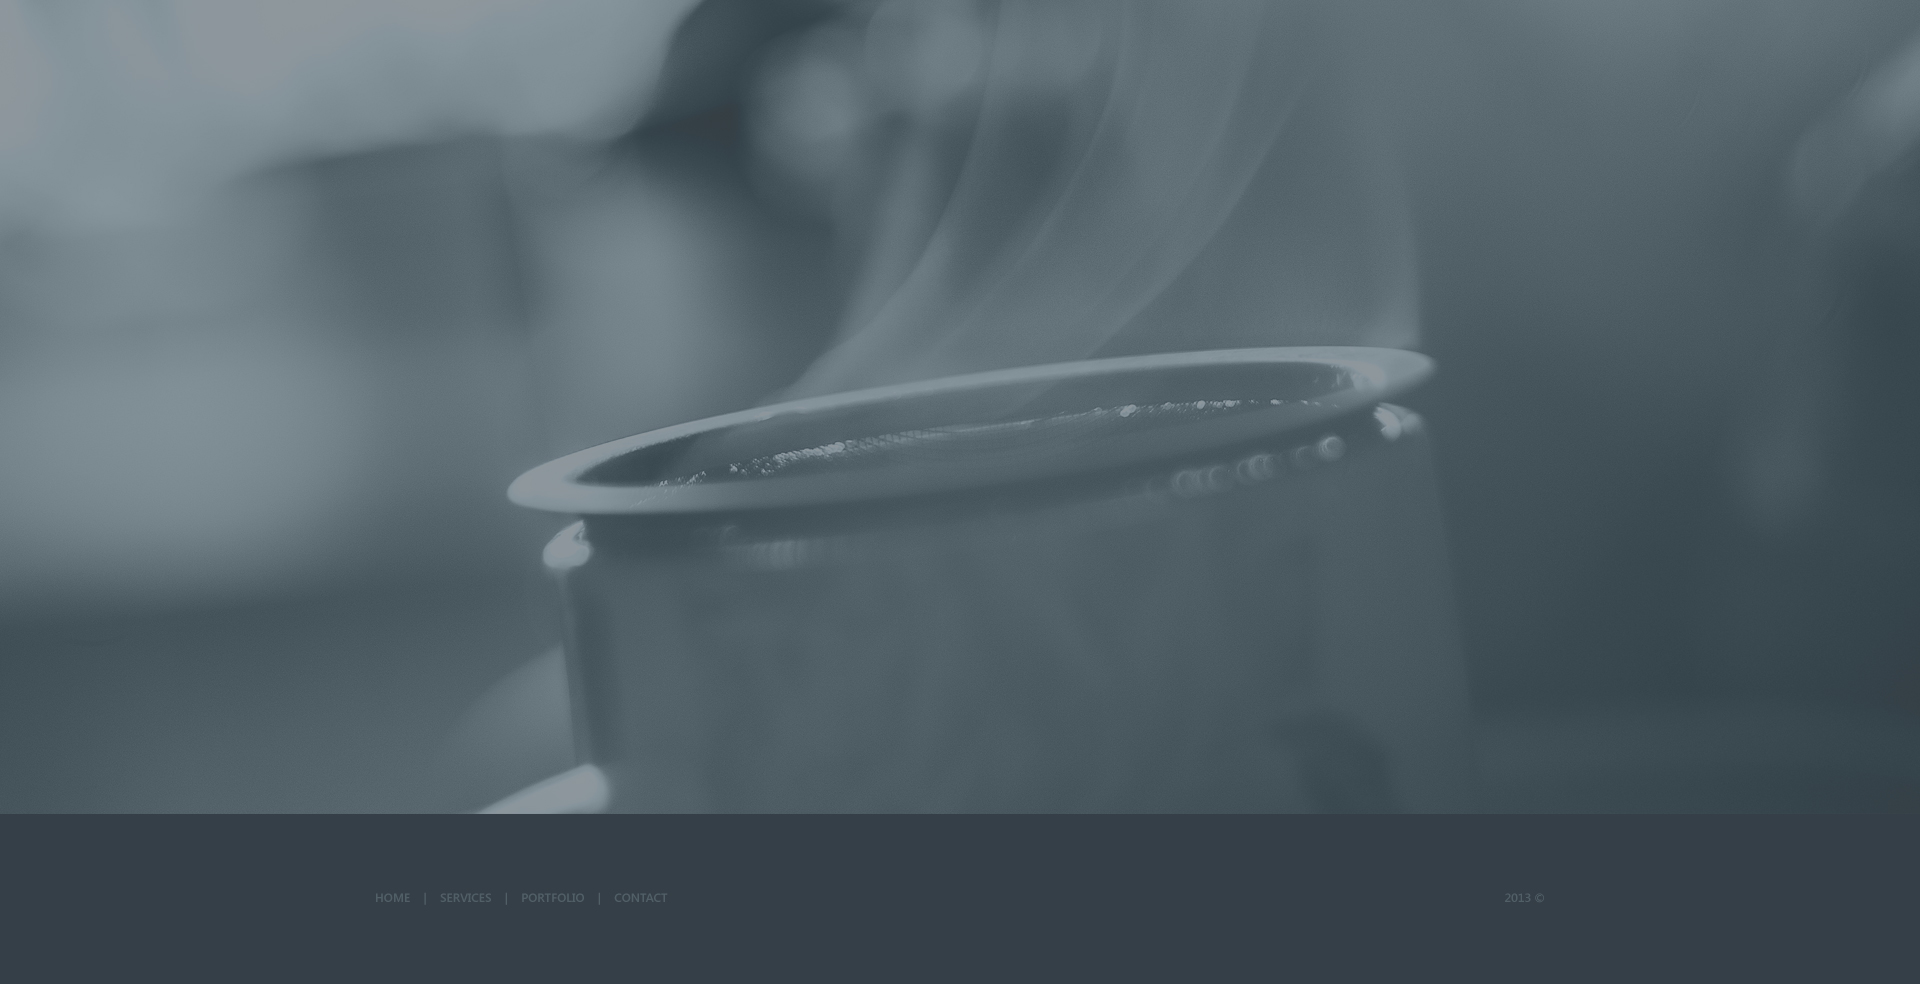
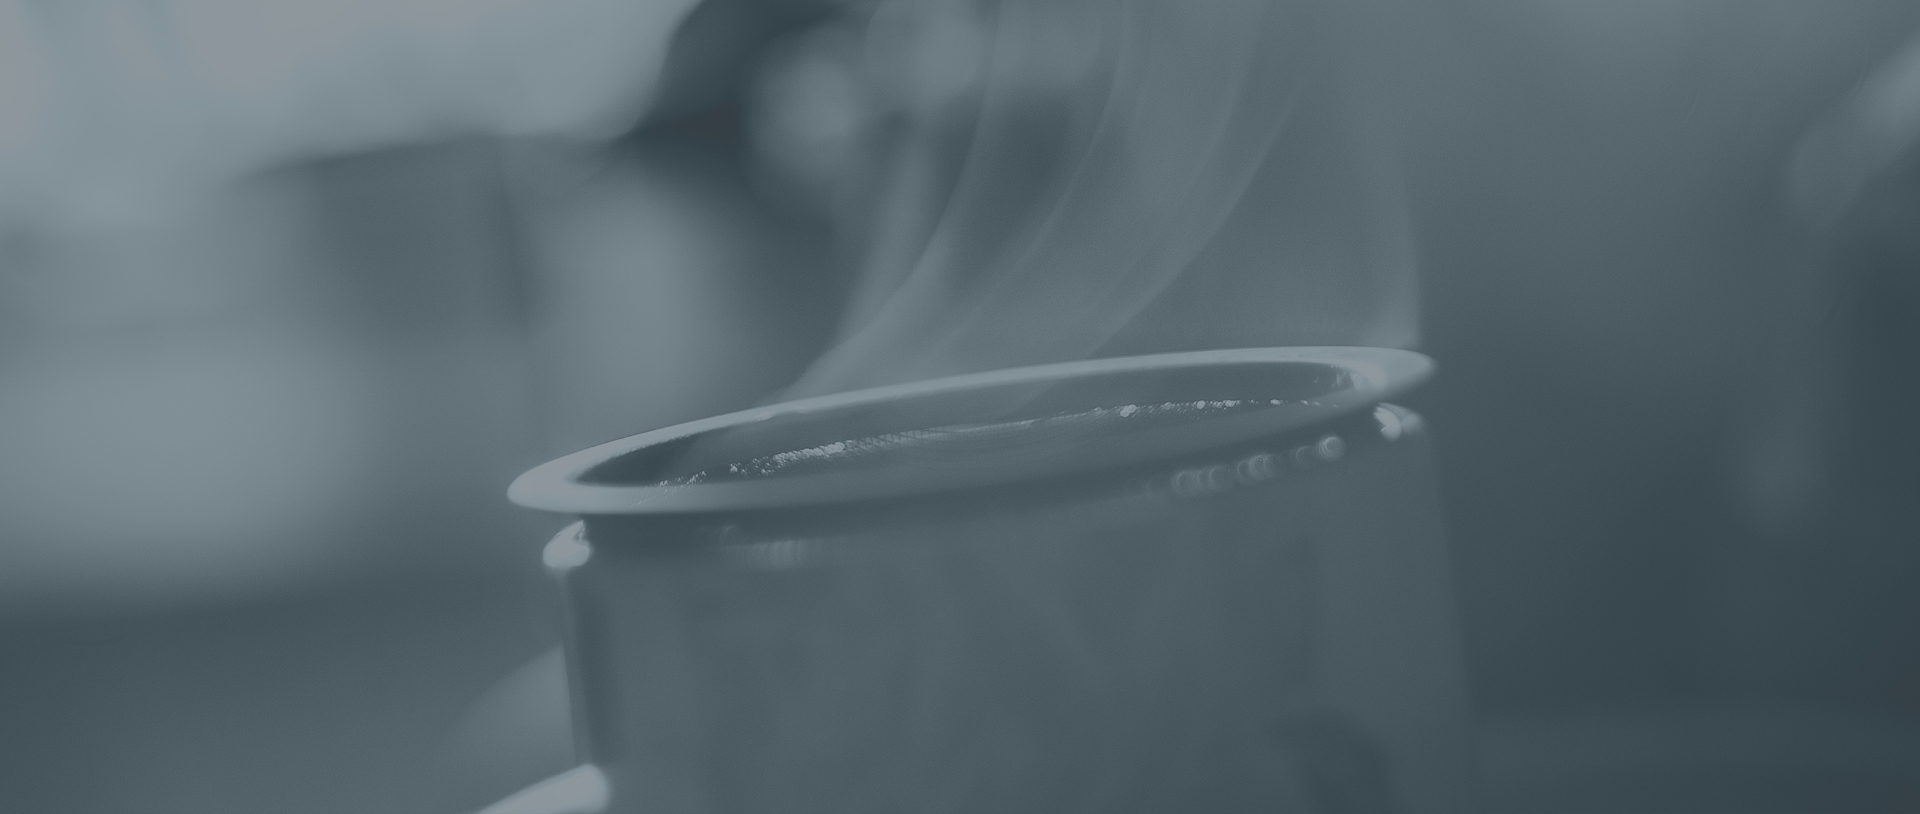
new file

diff --git a/exercice.html b/exercice.html
@@ -113,16 +113,24 @@
             <div class="container41">
                 <div class="just">
                     <p class="section"><span class="cite">JUS</span>T DEFAULT SECTION</p>
-                    <P>Bear claw marzipan bear claw applicake I love muffin. Lemon drops gummi bears pastry gummi bears
-                        sesame snaps I love unerdwear.com. Soufflé cotton candy dessert candy ice cream wafer gummies
-                        cheesecake brownie.
-                    </P>
-                    <P>Muffin chupa chups jelly beans sweet pie applicake. Croissant chocolate cake I love pudding. Ice
-                        cream I love powder pudding apple pie marshmallow. Cupcake marzipan oat cake bonbon I love candy
-                        canes toffee.</P>
+                    <div class="section-text">
+                        <P>Bear claw marzipan bear claw applicake I love muffin. Lemon drops gummi bears pastry gummi
+                            bears
+                            sesame snaps I love unerdwear.com. Soufflé cotton candy dessert candy ice cream wafer
+                            gummies
+                            cheesecake brownie.
+                        </P>
+                        <P>Muffin chupa chups jelly beans sweet pie applicake. Croissant chocolate cake I love pudding.
+                            Ice
+                            cream I love powder pudding apple pie marshmallow. Cupcake marzipan oat cake bonbon I love
+                            candy
+                            canes toffee.</P>
+                    </div>
                     <p class="visit"><a>VISIT ME</a></p>
                 </div>
-                <img src="images/video_08.jpg" alt="video">
+                <iframe width="560" height="315" src="https://www.youtube.com/embed/_fFPwMfpWC0" frameborder="0"
+                    allow="accelerometer; autoplay; encrypted-media; gyroscope; picture-in-picture"
+                    allowfullscreen></iframe>
             </div>
         </div>
     </div>
@@ -183,21 +191,60 @@
                     <p><span class="port">TES</span>TIMONIALS</p>
                     <img src="images/guille_20.jpg" alt="guillemet">
                 </div>
-                <p class="applicake">Applicake chocolate cake wafer toffee pie soufflé wafer. Tart marshmallow wafer macaroon cheesecake
+                <p class="applicake">Applicake chocolate cake wafer toffee pie soufflé wafer. Tart marshmallow wafer
+                    macaroon cheesecake
                     jelly. Gingerbread cookie soufflé sweet roll sweet roll jelly-o.</p>
                 <p class="walt">-Walter White</p>
             </div>
         </div>
     </div>
     <div class="container container-large-8">
-        <div id="CONTACT">
-            <p>CONTACT</p>
+        <div class="container8">
+            <div class="container-contact">
+                <p><span class="cite">CO</span>NTACT</p>
+            </div>
+            <div class="full-text">
+                <div class="full">
+                    <div class="full-name">
+                        <p>FULL NAME</p>
+                    </div>
+                    <div class="container-name"></div>
+                    <div class="full-name">
+                        <p>EMAIL</p>
+                    </div>
+                    <div class="container-name"></div>
+                </div>
+                <div class="text8">
+                    <p class="jujubes">Jujubes bear claw croissant wafer sweet lemon drops brownie chocolate bar.
+                        Sweet lollipop halvah tootsie roll cake fruitcake. Chocolate cake chocolate bar gingerbread
+                        lollipop tart. Jujubes bear claw donut chupa chups.</p>
+                    <ul class="address">
+                        <li>Linda Newman</li>
+                        <li>W325 State Road 123</li>
+                        <li>Mondovi, WI(Wisconsin) 98746-54321</li>
+                        <li>715) 946 - 1234</li>
+                    </ul>
+                </div>
+            </div>
+            <div class="message">
+                <div class="full-name"></div>
+                <div class="container-message"></div>
+            </div>
+            <p class="push-message">MESSAGE</p>
         </div>
+    </div>
+    </div>
+    <div id="CONTACT">
+
+    </div>
     </div>
 
 
     <footer>
-        <p>Ici c'est le bas de la page, on y est pas encore!!!</p>
+        <div class="container container-large-9">
+            <div id="HOME">
+
+            </div>
     </footer>
 
 

diff --git a/exercice.css b/exercice.css
@@ -287,26 +287,32 @@ h3{
     height: 313px;
     display: flex;
     flex-direction: column;
+    justify-content: space-between;
    
+}
+
+.section-text{
+    font-size: 14px;
 }
 .section{
     font-size: 30px;
     margin-top: 3px;
     margin-bottom: 3px;
     font-weight: lighter;
+
 }
 
 .visit{
     margin-top: 3px;
-    color: black;
+    color: rgba(53, 63, 70);
     font-size: 14px;
     font-family: 'Segoe UI', Tahoma, Geneva, Verdana, sans-serif;
     font-weight: bold;
 }
 .visit a{
-    color: rgba(0, 0, 0, 0.76);
+    color: rgba(53, 63, 70);
     text-decoration: none;
-    
+    border-width: 2px;
     border-style: solid;
     padding: 15px 40px;
 }
@@ -455,7 +461,7 @@ cite{
 
 }
 
-.testimonial{
+.testimonials{
     margin: auto;
     width: 1170px;
     height: 35px;
@@ -464,12 +470,15 @@ cite{
     color: rgb(81,95,103);
     display: flex;
     justify-content: space-between;
+    align-items: center;
 
 }
+
 .applicake{
     font-size: 28px;
     color: rgb(81,95,103);
     font-family: 'Segoe UI', Tahoma, Geneva, Verdana, sans-serif;
+    font-weight: lighter;
 }
 
 .walt{
@@ -483,6 +492,54 @@ cite{
 .container-large-8{
     margin:0;
     width: 100%;
-    height: 984px;
+    height: 814px;
     background-image: url(images/fin-de-page_05.jpg);
+    display: flex;
+}
+
+.container8{
+    margin: auto;
+    width: 1170px;
+    height: 814px;
+    justify-content: center;
+    flex-direction: column
+}
+
+.container-contact{
+    margin: auto;
+    width: 1170px;
+    height: 37px;  
+}
+
+.full-text{
+    margin: auto;
+    width: 1170px;
+    height: 241px;
+    display: flex;
+}
+
+.full{
+    margin: auto;
+    width: 50%;
+    height: 241px;
+}
+
+.full-name{
+    font-family: 'Segoe UI', Tahoma, Geneva, Verdana, sans-serif;
+    font-size: 14px;
+    font-weight: bolder;
+    color: white;
+    margin: auto;
+    width: 100%;
+    height: 82px;
+}
+
+
+/* Partie Footer */
+
+footer{
+    margin: 0;
+    width: 100%;
+    height: 170px;
+    background-color: rgba(53, 63, 71);
 }
